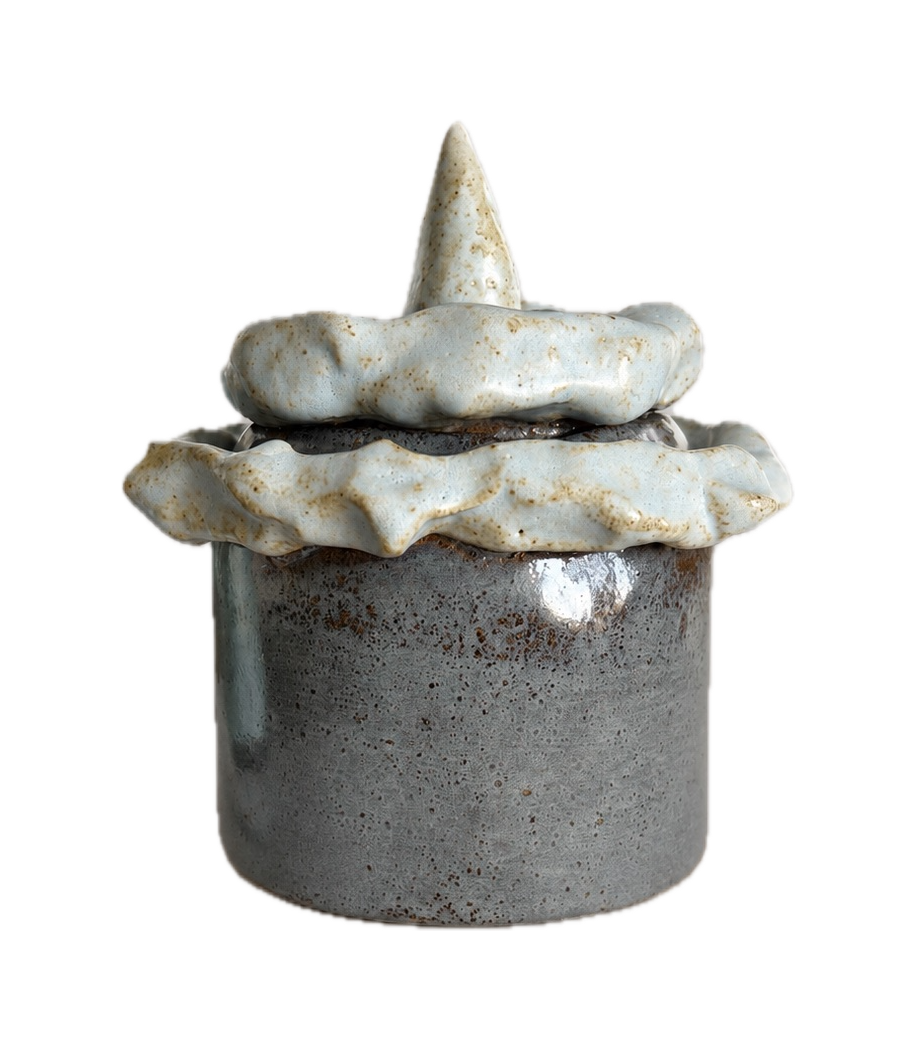
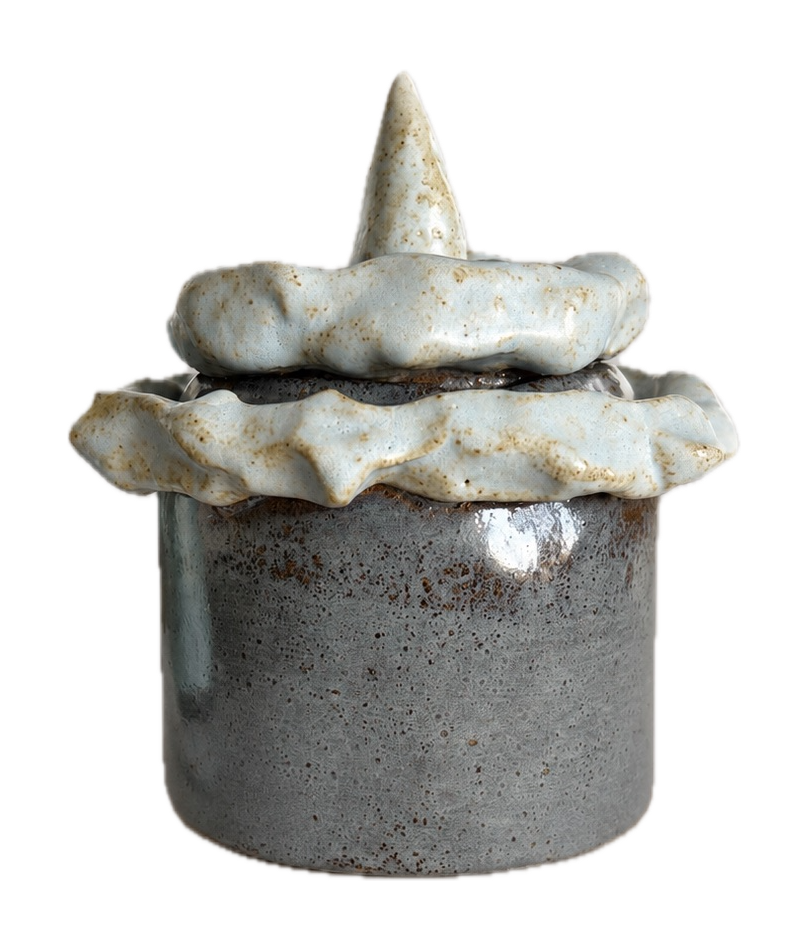
Refine brokentears labels and covers

Changed region(s): [[0.0618, 0.0614, 0.9271, 0.9523]]

diff --git a/brokentears.html b/brokentears.html
@@ -264,10 +264,10 @@
       {
         id: "01",
         title: "Сахарница",
-        image: "https://maieuticaio.github.io/folder/brokentears/obj/01shugar.png",
+        image: "folder/brokentears/obj/01shugar-cover.png",
         detailTitle: "OBJ 01",
         description: "Сахарница поселится у Нади.",
-        metaLeft: "керамика",
+        metaLeft: "сахарница",
         metaRight: "--",
         gallery: [
           PLACEHOLDER_IMAGE,
@@ -282,7 +282,7 @@
         image: "https://maieuticaio.github.io/folder/brokentears/obj/02peppersalt.png",
         detailTitle: "OBJ 02",
         description: "Соль и перец.",
-        metaLeft: "керамика",
+        metaLeft: "перечница и солонка",
         metaRight: "--",
         gallery: [
           PLACEHOLDER_IMAGE,
@@ -295,7 +295,7 @@
         image: "https://maieuticaio.github.io/folder/brokentears/obj/03sause.png",
         detailTitle: "OBJ 03",
         description: "Баночка для соевого соуса.",
-        metaLeft: "керамика",
+        metaLeft: "соусник",
         metaRight: "--",
         gallery: [
           PLACEHOLDER_IMAGE,
@@ -308,7 +308,7 @@
         image: "https://maieuticaio.github.io/folder/brokentears/obj/01podsvechnik.png",
         detailTitle: "OBJ 04",
         description: "Подсвечник поселился у Насти.",
-        metaLeft: "Ванкувер",
+        metaLeft: "подсвечник",
         metaRight: "--",
         gallery: [
           "https://maieuticaio.github.io/folder/brokentears/obj/02podsvechnikdoma.jpeg",
@@ -321,7 +321,7 @@
         image: "https://maieuticaio.github.io/folder/brokentears/obj/01skvorechnik.png",
         detailTitle: "OBJ 05",
         description: ".",
-        metaLeft: "керамика",
+        metaLeft: "скворечник",
         metaRight: "--",
         gallery: [
           PLACEHOLDER_IMAGE,
@@ -334,7 +334,7 @@
         image: "folder/brokentears/obj/06skvorechnik-cover.png",
         detailTitle: "OBJ 06",
         description: ".",
-        metaLeft: "керамика",
+        metaLeft: "скворечник",
         metaRight: "--",
         gallery: [
           PLACEHOLDER_IMAGE,
@@ -347,7 +347,7 @@
         image: "folder/brokentears/obj/07sauce2-cover.png",
         detailTitle: "OBJ 07",
         description: ".",
-        metaLeft: "керамика",
+        metaLeft: "соусник",
         metaRight: "--",
         gallery: [
           "folder/brokentears/obj/07sauce2-original.jpeg",
@@ -361,7 +361,7 @@
         image: "folder/brokentears/obj/08vase1-cover.png",
         detailTitle: "OBJ 08",
         description: ".",
-        metaLeft: "керамика",
+        metaLeft: "ваза",
         metaRight: "--",
         gallery: [
           "folder/brokentears/obj/08vase1-grass.jpeg",
@@ -414,7 +414,7 @@
               </svg>
             </div>
           </figure>
-          <span class="product-status">скоро</span>
+          <span class="product-status" aria-hidden="true"></span>
         </div>
       </article>
     `;